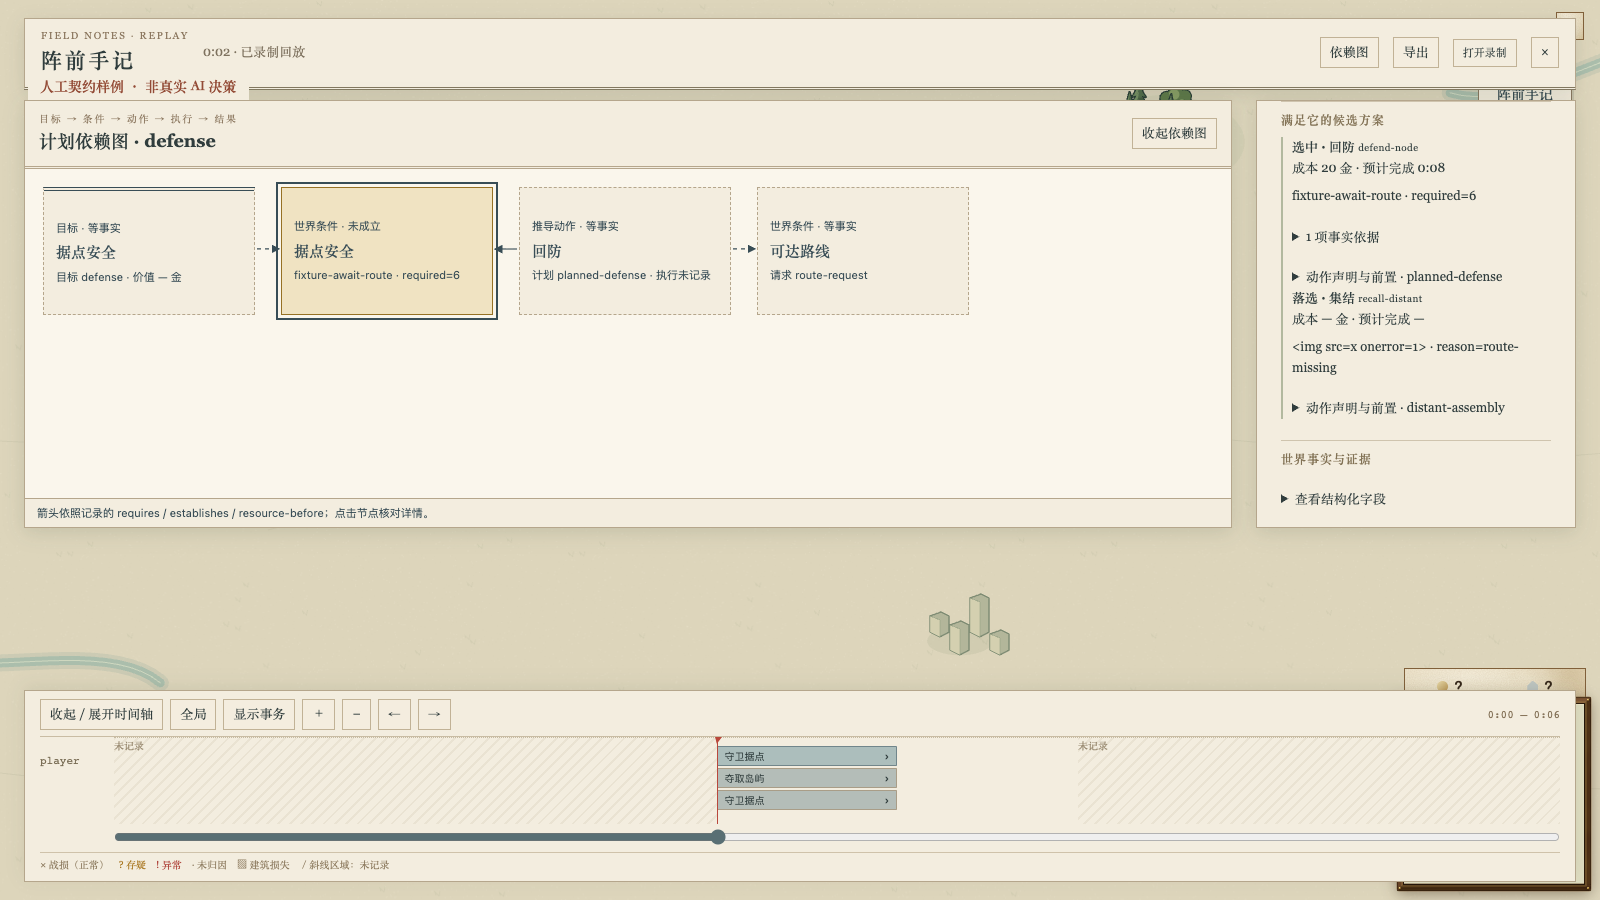
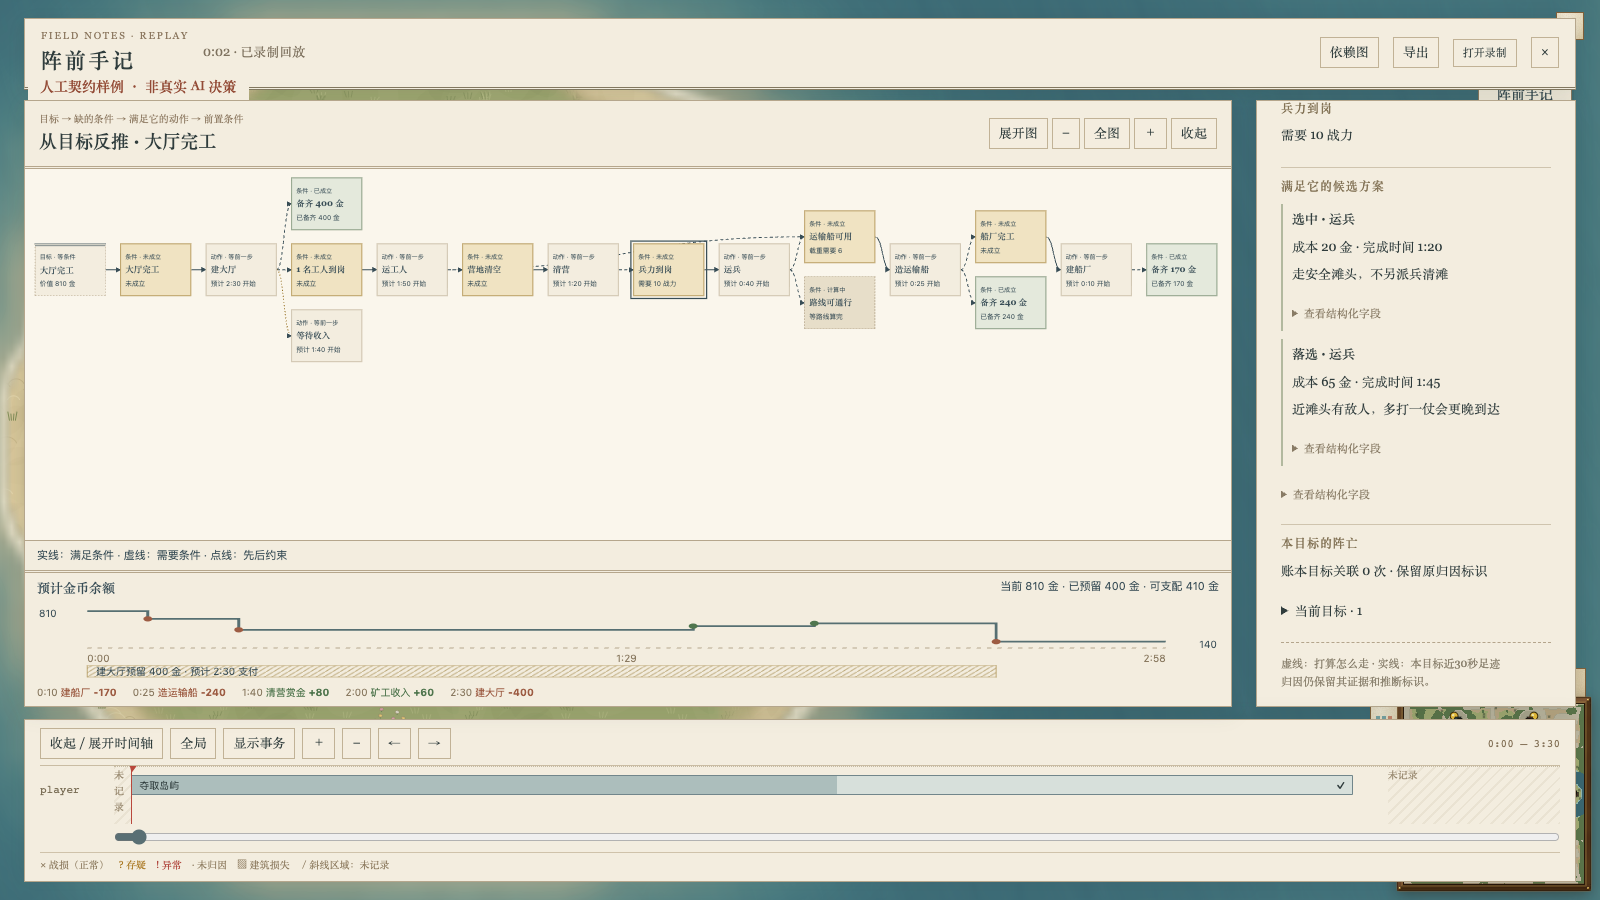
Publish inspected navy dependency and gold-flow mockups with exact capture sources

diff --git a/docs/ai/plan-viz/index.html b/docs/ai/plan-viz/index.html
@@ -1,1 +1,1 @@
-<!doctype html><html lang="zh-CN"><head><meta charset="utf-8"><meta name="viewport" content="width=device-width,initial-scale=1"><title>阵前手记 · 计划依赖图样稿</title><link rel="icon" href="data:,"><link rel="stylesheet" href="styles.css"><style>.chooser{max-width:1360px;margin:auto;padding:48px 40px}.chooser h1{margin:12px 0 16px}.intro{max-width:850px;font-size:15px;color:var(--muted)}.choices{display:grid;grid-template-columns:1fr 1fr;gap:28px;margin-top:30px}.choice{display:block;background:var(--paper-light);border:1px solid var(--ink);color:var(--ink);text-decoration:none;box-shadow:4px 4px 0 var(--shade)}.choice img{display:block;width:100%;height:410px;object-fit:cover;object-position:top;border-bottom:1px solid var(--line)}.choice .copy{padding:20px 23px}.choice h2{font-size:24px;margin-bottom:10px}.choice p{color:var(--muted);margin:8px 0}.choice .open{display:inline-block;border-bottom:1px solid var(--brass);margin-top:12px}.source-note{margin-top:28px;padding-top:20px;border-top:1px solid var(--line);color:var(--muted)}@media(max-width:820px){.chooser{padding:24px}.choices{grid-template-columns:1fr}.choice img{height:320px}}</style></head><body><main class="chooser"><div class="eyebrow">Sketch RTS / 墨线战图 / 第二轮样稿</div><h1>沿着依赖，看见打算怎样成为结果</h1><p class="intro">“阵前手记”第二版：时间轴成为主轴，拖动即可同步战图和计划。点击目标，沿着为什么 → 怎么做 → 派了谁 → 进展 → 结果展开；点击阵亡位置，核对 v2 主分类、子标签与交战证据。</p><a class="choice" href="goal-dependency.html" style="margin-top:25px"><img src="goal-dependency-plan.png" alt="人工样稿：目标、未成立的条件、动作方案、执行和结果的依赖图" style="height:auto;max-height:650px;object-fit:cover;object-position:top"><div class="copy"><div class="eyebrow">III / Goal Dependency / 人工样稿</div><h2>从所求，到所得</h2><p>按 #584 显示目标依赖图；保留落选方案、等待事实、执行阶段与效果证据。四个关键时刻由时间轴联动，全部为假数据版式。</p><span class="open">打开目标依赖图样稿 →</span></div></a><a class="choice" href="timeline.html" style="margin-top:25px"><img src="preview-timeline-overview.webp" alt="第二版：战图、意图与结果面板，以及每个 AI 的目标时间泳道" style="height:auto;max-height:650px;object-fit:cover;object-position:top"><div class="copy"><div class="eyebrow">II / Intent and Consequence</div><h2>阵前手记 · 意图与回声</h2><p>真实双岸对局 0–15 分钟，阶段分段、拖选缩放与平移；单机默认关，联机只看自己，赛后回放看全部。</p><span class="open">打开第二版样稿 →</span></div></a><details style="margin-top:30px"><summary>查看第一轮样稿（风格与可见性选项的历史方案）</summary><section class="choices"><a class="choice" href="ink-map.html"><img src="preview-ink.webp" alt="阵前手记：浅色战图，右侧是目标和手记批注"><div class="copy"><div class="eyebrow">01 / Field Atlas</div><h2>阵前手记</h2><p>地图是主角，目标像写在纸边的批注。适合一边看战局，一边理解部队的意图。</p><span class="open">打开这版样稿 →</span></div></a><a class="choice" href="command-desk.html"><img src="preview-desk.webp" alt="将军案卷：深墨题头，左侧目标目录，战图上展开计划树"><div class="copy"><div class="eyebrow">02 / Command Desk</div><h2>将军案卷</h2><p>目标目录与战图并列，计划树像一张展开的军情卷宗。适合追踪原因、任务交接与变化。</p><span class="open">打开这版样稿 →</span></div></a></section></details><div class="source-note"><p>3:59–6:07 · 扩张闭环与 18 秒受阻；8:01 · 进攻放弃；正常 / 存疑 / 异常与未归因阵亡、建筑损失均可点开。</p><p>地图、单位、任务和变化都来自实战记录。当前模块没有保留的效用分和预留金额显示为“—”，下一步由战略层提供。</p><p>全部资源随目录提供，无需联网或启动游戏。当前仍为静态样稿，尚未接入游戏。第二版使用已确定的可见性规则。</p></div></main></body></html>
+<!doctype html><html lang="zh-CN"><head><meta charset="utf-8"><meta name="viewport" content="width=device-width,initial-scale=1"><title>阵前手记 · 计划依赖图样稿</title><link rel="icon" href="data:,"><link rel="stylesheet" href="styles.css"><style>.chooser{max-width:1360px;margin:auto;padding:48px 40px}.chooser h1{margin:12px 0 16px}.intro{max-width:850px;font-size:15px;color:var(--muted)}.choices{display:grid;grid-template-columns:1fr 1fr;gap:28px;margin-top:30px}.choice{display:block;background:var(--paper-light);border:1px solid var(--ink);color:var(--ink);text-decoration:none;box-shadow:4px 4px 0 var(--shade)}.choice img{display:block;width:100%;height:410px;object-fit:cover;object-position:top;border-bottom:1px solid var(--line)}.choice .copy{padding:20px 23px}.choice h2{font-size:24px;margin-bottom:10px}.choice p{color:var(--muted);margin:8px 0}.choice .open{display:inline-block;border-bottom:1px solid var(--brass);margin-top:12px}.source-note{margin-top:28px;padding-top:20px;border-top:1px solid var(--line);color:var(--muted)}@media(max-width:820px){.chooser{padding:24px}.choices{grid-template-columns:1fr}.choice img{height:320px}}</style></head><body><main class="chooser"><div class="eyebrow">Sketch RTS / 墨线战图 / 目标依赖图样稿</div><h1>沿着依赖，看见打算怎样成为结果</h1><p class="intro">从目标反推条件与动作，沿时间核对金币和结果。新版用公开第 3 题“从零造海军”的人工数据展示分叉、汇合与大厅预留；下方保留历史双岸实战样稿。</p><a class="choice" href="goal-navy.html" style="margin-top:25px"><img src="goal-navy-layout.png" alt="人工样稿：目标、未成立的条件、动作方案、执行和结果的依赖图" style="height:auto;max-height:650px;object-fit:cover;object-position:top"><div class="copy"><div class="eyebrow">III / Goal Dependency / 人工公开题 3</div><h2>从零造海军</h2><p>左向右反推，船与金币分叉汇合；先支付船厂和船，再获赏金与收入，大厅保留 400 金。节点和侧栏说人话，内部字段可展开。</p><span class="open">打开目标依赖图样稿 →</span></div></a><a class="choice" href="timeline.html" style="margin-top:25px"><img src="preview-timeline-overview.webp" alt="第二版：战图、意图与结果面板，以及每个 AI 的目标时间泳道" style="height:auto;max-height:650px;object-fit:cover;object-position:top"><div class="copy"><div class="eyebrow">II / Intent and Consequence</div><h2>阵前手记 · 意图与回声</h2><p>真实双岸对局 0–15 分钟，阶段分段、拖选缩放与平移；单机默认关，联机只看自己，赛后回放看全部。</p><span class="open">打开第二版样稿 →</span></div></a><details style="margin-top:30px"><summary>查看第一轮样稿（风格与可见性选项的历史方案）</summary><section class="choices"><a class="choice" href="ink-map.html"><img src="preview-ink.webp" alt="阵前手记：浅色战图，右侧是目标和手记批注"><div class="copy"><div class="eyebrow">01 / Field Atlas</div><h2>阵前手记</h2><p>地图是主角，目标像写在纸边的批注。适合一边看战局，一边理解部队的意图。</p><span class="open">打开这版样稿 →</span></div></a><a class="choice" href="command-desk.html"><img src="preview-desk.webp" alt="将军案卷：深墨题头，左侧目标目录，战图上展开计划树"><div class="copy"><div class="eyebrow">02 / Command Desk</div><h2>将军案卷</h2><p>目标目录与战图并列，计划树像一张展开的军情卷宗。适合追踪原因、任务交接与变化。</p><span class="open">打开这版样稿 →</span></div></a></section></details><div class="source-note"><p>历史双岸记录：3:59–6:07 · 扩张闭环与 18 秒受阻；8:01 · 进攻放弃；正常 / 存疑 / 异常与未归因阵亡、建筑损失均可点开。</p><p>历史双岸样稿的地图、任务与变化来自实战记录；新版海军依赖图全部为人工数据，不作为规划器解题或执行证据。</p><p>页面可双击打开，无需联网。目标依赖图消费端已接线，新规划器生产端未启用，#576 保持 draft。</p></div></main></body></html>

diff --git a/docs/ai/plan-viz/goal-consumer.zh.md b/docs/ai/plan-viz/goal-consumer.zh.md
@@ -1,47 +1,54 @@
 # 目标依赖图消费端
 
-#576 保持 draft。入口是 `AiPlanTrace.goalPlanner?: GoalPlannerOutput`；本切片只读取共享输出，不调用规划器、事实读取器或动作 provider，不产生命令和资源租用。正式生产端尚未启用，因此本页的游戏内截图全部标注“人工契约样例 · 非真实 AI 决策”。
+#576 保持 draft，固定消费契约为 `feat/strategy-goal-planner` 的 `8afe8a35`。入口是 `AiPlanTrace.goalPlanner?: GoalPlannerOutput`；不调用规划器、事实源或动作 provider，不生成命令、兵力或预算。
 
-共同契约固定在 `feat/strategy-goal-planner` 的 `8afe8a35b3474855ac4352752cd1ffe0b6c999c9`（含 `GoalAlternative.declaration` 和精确 cargo/cohort 引用）。#576 以该分支为 base；后续接口增量和真实生产端接通后继续复核，尚未申请合并。
+当前样稿：[从零造海军，双击打开](goal-navy.html)。它与游戏叠加层使用相同的渲染函数，由 `scripts/export-goal-plan-mockup.ts` 导出，单文件、无需联网。默认展开全图，点击节点后打开侧栏，支持缩放、查看原始字段和切换时间。
 
-独立的五层版式见 [目标依赖图样稿](goal-dependency.html)。它使用版式专用假数据；这里的游戏内样例则直接使用 shared 类型约束的 `GoalPlan`，经过正常计划增量、debug 录制与回放界面。
+## 公开第 3 题的人工展示
 
-## 从目标到结果
+这是公开题“从零造海军”的**版式样例**，不是规划器解题结果。所有页面和截图始终标记人工数据。
 
-- 主图展示目标、世界事实和动作。箭头方向与 `requires` / `establishes` / `resource-before` 原记录一致；目标效果直接关联事实。节点可滚动查看，布局最多展开 200 个事实和动作，超出部分明确计数。
-- 点击事实，查看未成立原因、`pending` 的稳定 requestId、可用时刻及满足它的候选方案。未来才成立的条件明确写“当前尚不可用”，不冒充当前就绪。原生证据、精确 cohort/cargo 引用、收入来源和绝对时间区间保留在可展开的结构化字段中。
-- 候选方案优先读取自身完整动作声明，再查已选 actions；旧录制两处都没有时写“动作声明未记录”，不从 ID 猜测动作类型。落选方案的前置、执行器、成本和落选原因仍可核对。
-- 点击动作，查看前置事实、前置动作、计划执行器、未来产物和预计时间。未来 output 引用不变成当前实体；计划就绪和命令接纳都不代表已经执行。
-- 实际执行、兵力和预算只关联相同 objective、method、action 和 generation 的正式记录。计划资源需求、规划余额与实际已支付金额分开；同名动作的旧代次不算本次执行。
-- 结果只读目标状态和世界效果观测；没有实际完成时刻就显示“—”。未知估值保持“—”，不会继承旧报价或替换成零。
+- 船厂 170、运输船 240、大厅 400，直接读取游戏 catalog；初始 810 金。
+- 展示建船厂 → 造运输船 → 运兵 → 清营 → 运工人 → 建大厅。运兵和运工人共用船，造船同时依赖船厂与金币；大厅需要工人、清空的营地和建造费。
+- 资源带先支付 170 和 240，余额保留 400；随后示意赏金 +80、矿工收入 +60，最后支付大厅 400，剩 140。80 和 60 是明确的人工演示金额。
+- 当前大厅预留 400 来自样例里显式的正式 budget。图上斜线段延伸到预计付款时间，属于展示投影；不会因此生成或复制一笔世界资源。付款后显示已预留 0、可支配 140；没有预算记录时显示“—”。
+- 三帧分别是 tick 50、2100、3600。清营前后和大厅完工由时间轴切换；50 以前及 3700 以后明确显示“未记录”，帧间保持已记录帧。
 
-底部泳道与原有回放进度联动。目标完成后又变为未成立时开始新的观察条带；缺少记录的时段仍显示“未记录”，不补建、不插值。旧模块和分配记录仍可读，未提供 `goalPlanner` 时明确说明未记录规划器输出。
+## 阅读顺序与原始记录
 
-## 通路与权限
+图上统一从左向右反推：目标 → 缺的条件 → 满足它的动作 → 动作的前置条件。实线表示满足条件，虚线表示需要条件，点线表示先后约束。共享条件在同一节点汇合。
 
-首包带完整基线，后续 `goalPlannerDelta` 按稳定键更新事实、动作、候选和 cache.entries；缓存条目使用 goalKey。补丁更大时回退整值，旧的完整 header 录制仍可读取。缺少基线、owner 不匹配或可选字段删除冲突时不应用补丁，历史帧保持不变。
+这是视图投影：`establishes` 和 `resource-before` 在反推阅读方向展示，原始边、ID 和方向不修改，保留在“查看结构化字段”中。布局限制 200 个事实与动作；循环记录用明确标记的前向引用叶子保留，不反向画箭头。
 
-沿用现有 all / owner / none 服务端过滤和 debug 入口，没有新增可自选观众的通路。关闭视图且未录制时仍不观察、不构造 trace；客户端关闭时不构造依赖图 DOM。没有修改模拟、规则或校验和格式版本。
+节点和侧栏用中文说明条件、动作、当前进度、预算及结果。pending 路线显示“等路线算完”；缺少执行者、时刻或数值时显示“—”。内部 ID、requestId、执行器代码、原生证据及完整声明收进结构化详情。候选方案仍保留选中/落选、成本、完成时间和原因。
 
-## 验证范围
+实际执行、分配和预算只关联同一 objective、method、action、generation。当前现金与预留来自 trace；余额曲线直接读取 resourceTimeline 的 before/delta/after，不重新计入收入或赏金。旧代次不能冒充当前执行；未来 output 引用不会变成真实单位。
+
+## 增量、权限与关闭开销
+
+首包完整基线，后续 goalPlannerDelta 按稳定键更新，cache.entries 使用 goalKey；补丁更大时退回整值。旧完整 header 录制仍可读取，历史帧保持不变。目标完成后再次出现会重新起条带；未记录时段不补建。
+
+沿用 all / owner / none 的服务端可见性和现有 debug 入口。关闭视图且未录制时不观察、不构造 trace；关闭时不构造图 DOM。未修改模拟、规则或校验和格式版本。没有新规划器的真实决策、执行或负载证明，后续仍等共同候选和生产端。
+
+## 验证
+
+代码源 `a23acc53df1c0517445afd49cfd86f77f4f191bf`：根/CLI tsc 均退出 0，10 文件 51 项通过。新增检查包括分叉与汇合、每条阅读边向右、原生边不可变、循环有界、先花后挣、400 金保护、并发预留合计及付款后的 0 预留。现有通路回归仍检查零构造、私有过滤、不可变回放、worker、观察开关前后逐命令和逐 tick 哈希一致。
 
 ```sh
 npx tsc --noEmit -p .
 npx tsc --noEmit -p tools/cli/tsconfig.json
-npx vitest run src/client/ai-goal-plan.test.ts src/client/ai-plan-strategy.test.ts src/client/ai-plan-history.test.ts src/ai/plan-output-delta.test.ts src/ai/plan-observer.test.ts src/server/ai-plan-net.test.ts src/ai/plan-observation-gap.test.ts src/ai/think-worker/think-worker.test.ts src/sdk/package-boundaries.test.ts --maxWorkers 2 --minWorkers 1
+npx tsx scripts/export-goal-plan-mockup.ts --check
+npx vitest run src/client/ai-goal-plan.test.ts src/client/ai-goal-navy.test.ts src/client/ai-plan-strategy.test.ts src/client/ai-plan-history.test.ts src/ai/plan-output-delta.test.ts src/ai/plan-observer.test.ts src/server/ai-plan-net.test.ts src/ai/plan-observation-gap.test.ts src/ai/think-worker/think-worker.test.ts src/sdk/package-boundaries.test.ts --maxWorkers 2 --minWorkers 1
 SKETCH_MACHINES=~/.config/sketch/machines-camps.json bin/sketch yatu ai-goal-plan-contract --ref HEAD --on mac1 --locale zh-CN --json
+SKETCH_MACHINES=~/.config/sketch/machines-camps.json bin/sketch yatu ai-goal-navy-mockup --ref HEAD --on mac1 --locale zh-CN --json
 ```
 
-定向测试覆盖不可变消费、未知值、未来可用、同代次关联、私有过滤、JSON 录制、增量、cache 单行变更和未记录空窗。沿用的运行时回归检查关闭时零构造，以及观察开关前后的逐命令和逐 tick 哈希一致。生产端尚未运行新规划器，这些回归不能代替新规划器的行为和性能验收；本轮没有跑胜率 benchmark。
+mac1 使用真实 Metal GPU。游戏场景实际点击候选和预算、鼠标拖到清营后/完工/未记录时段；独立 HTML 从 file 打开并重开，检查预留、落选方案和结果。原图逐张查看；SHA256、实际拖动 tick 和来源见 [goal-consumer-capture.json](goal-consumer-capture.json)。本轮不跑胜率 benchmark；未把人工场景当作真实 AI 或性能验收，也未新增完整 src 测试。
 
-在消费端代码 `dca0b4c4776b36f22623de0398118627c19ac229` 上，根和 CLI tsc 均退出 0；9 文件 48 项测试通过。后续本轮提交只补说明、原始截图及校验元数据。
+CLI 增量复制会漏带 docs 文件，因此独立页面用该源的 git archive 放入 mac1 的独立目录 `runs/camps-navy-preview-a23acc53`；没有覆盖版本缓存。完整副本可直接运行常规命令。
 
-mac1 场景使用真实 Metal 浏览器，导入人工契约录制，实际点击条件、动作和 pending 请求，并拖动回放检查增量帧及未记录空窗。截图只证明类型消费和游戏内展示，不证明真实 AI 选择或执行了这些动作。
+![人工样稿：完整分叉与金币预留](goal-navy-layout.png)
+![游戏内人工样例：选中和落选的运兵方案](goal-contract-alternatives.png)
+![游戏内人工样例：执行空缺与受保护的大厅预算](goal-contract-execution.png)
 
-实际鼠标分别拖到 tick 68 与 95，检查增量帧保留依赖图、空窗不显示计划。契约样例特意在落选原因中包含转义检查文本，页面只显示文字，没有创建图像节点；版式选择请看独立 HTML 样稿。
-
-截图来源、逐文件 SHA256 和验证结果见 `goal-consumer-capture.json`。
-
-![人工契约样例：条件及落选方案](goal-contract-alternatives.png)
-![人工契约样例：计划执行器与实际执行分开](goal-contract-execution.png)
-![人工契约样例：鼠标拖入未记录时段](goal-contract-unrecorded.png)
+[清营之后](goal-contract-progress.png) · [大厅完工](goal-contract-result.png) · [未记录空窗](goal-contract-unrecorded.png) · [游戏内全图](goal-contract-overview.png)

diff --git a/docs/ai/plan-viz/goal-dependency.zh.md b/docs/ai/plan-viz/goal-dependency.zh.md
@@ -1,6 +1,8 @@
-# 目标依赖图版式样稿
+# 第一版目标依赖图（历史样稿）
 
-[双击打开样稿](goal-dependency.html)。HTML、CSS、JS 随目录提供，无联网、服务端或游戏依赖；正文采用系统中文字体。
+当前样稿已换成[从零造海军](goal-navy.html)，分叉、汇合、左向右反推和金币余额见[当前说明](goal-consumer.zh.md)。
+
+以下保留第一版来源。[打开历史样稿](goal-dependency.html)。HTML、CSS、JS 随目录提供，无联网、服务端或游戏依赖；正文采用系统中文字体。
 
 依据 #584 的 `docs/ai/objectives/goal-planner.zh.md` §5（main `d4ca2668`）：目标 → 未成立的条件 → 推导动作与落选方案 → 执行者与进度 → 结果。
 
